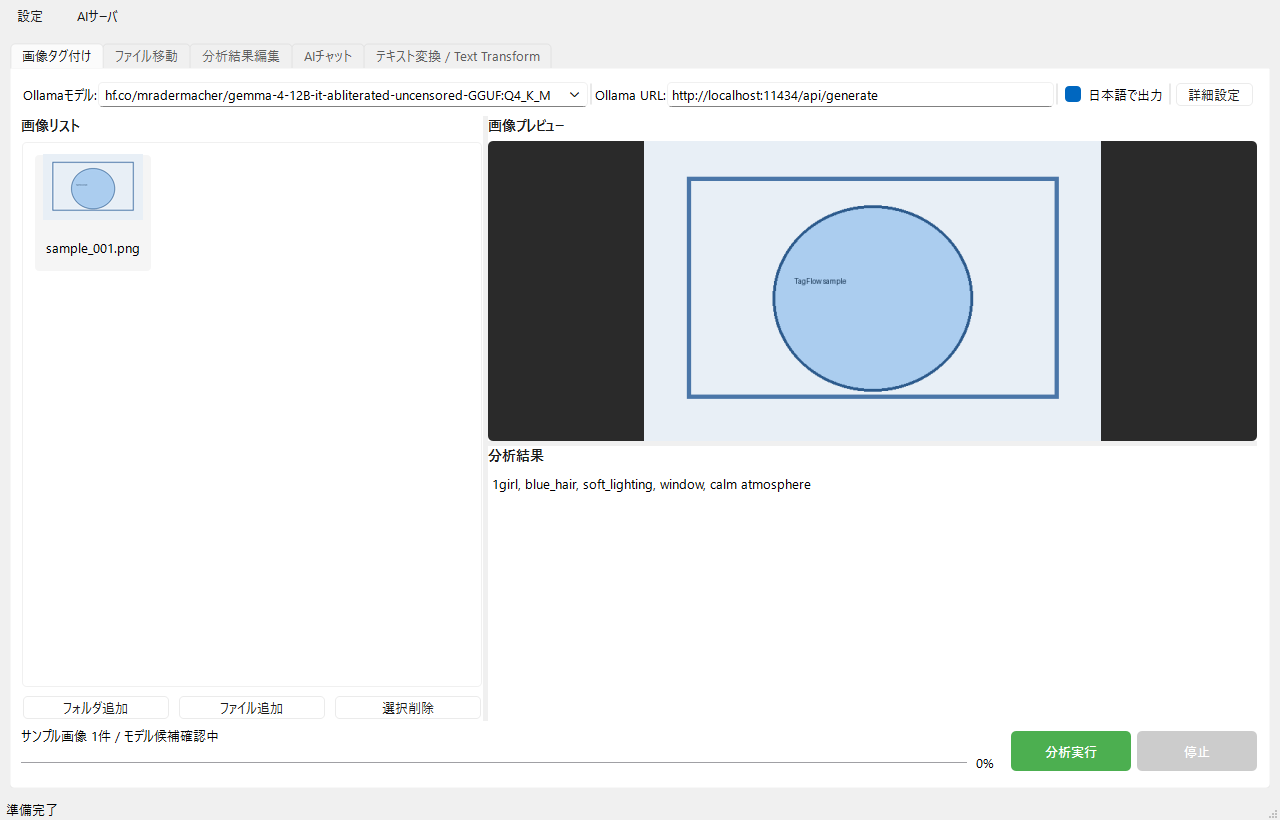
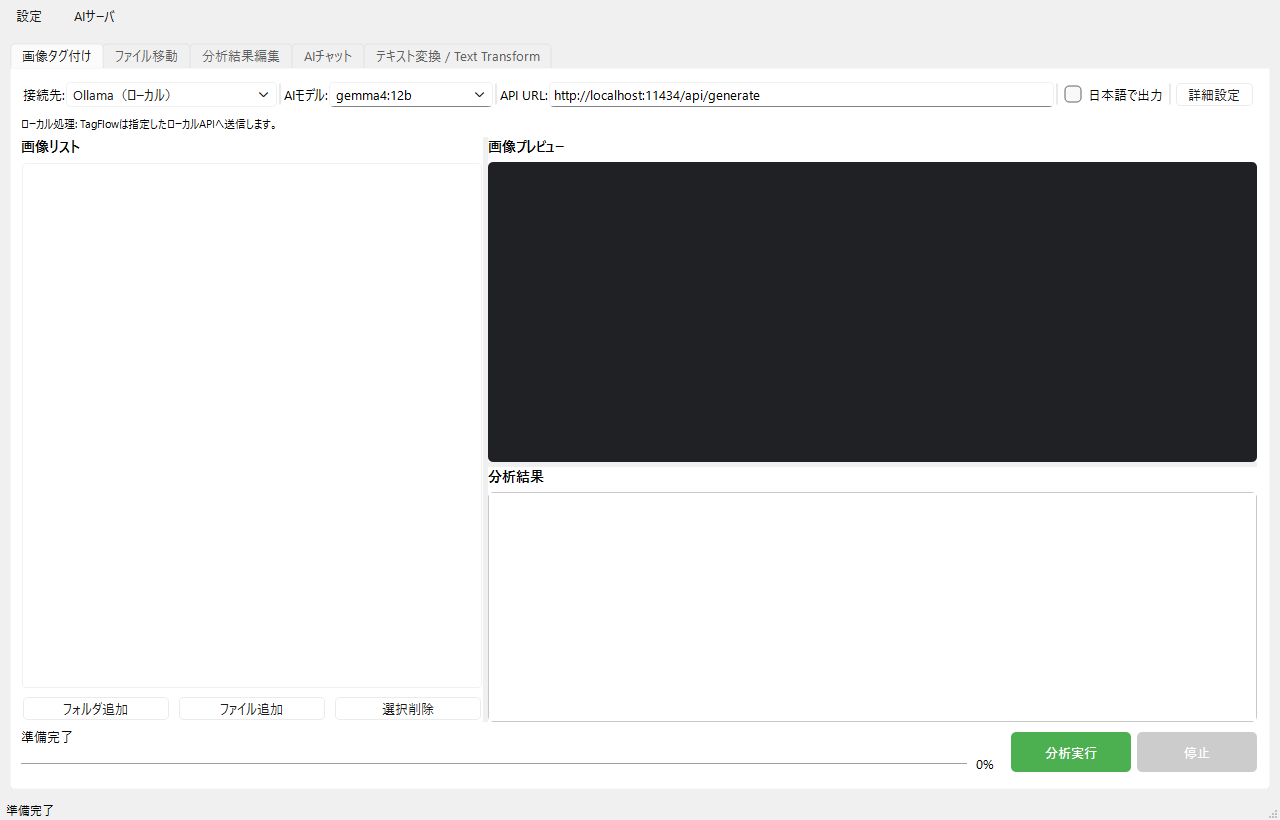
Refresh recommended AI models

diff --git a/tests/test_providers.py b/tests/test_providers.py
@@ -51,7 +51,7 @@ class ProviderPayloadTests(unittest.TestCase):
     def test_openai_responses_payload_uses_base64_image_input(self) -> None:
         payload = build_ai_request_payload(
             API_PROVIDER_OPENAI,
-            "gpt-5.6",
+            "gpt-5.6-sol",
             "describe",
             images=["YWJj"],
             image_mime_types=["image/png"],
@@ -59,7 +59,7 @@ class ProviderPayloadTests(unittest.TestCase):
             top_p=0.8,
         )
 
-        self.assertEqual(payload["model"], "gpt-5.6")
+        self.assertEqual(payload["model"], "gpt-5.6-sol")
         content = payload["input"][0]["content"]
         self.assertEqual(content[0], {"type": "input_text", "text": "describe"})
         self.assertEqual(
@@ -101,7 +101,7 @@ class ProviderPayloadTests(unittest.TestCase):
 
     def test_online_defaults_are_explicit(self) -> None:
         self.assertEqual(provider_default_api_url(API_PROVIDER_OPENAI), "https://api.openai.com/v1/responses")
-        self.assertEqual(provider_default_model(API_PROVIDER_OPENAI), "gpt-5.6")
+        self.assertEqual(provider_default_model(API_PROVIDER_OPENAI), "gpt-5.6-sol")
         self.assertEqual(provider_default_model(API_PROVIDER_CODEX_CLI), "")
 
 
@@ -131,13 +131,13 @@ class OpenAIExecutionTests(unittest.TestCase):
         with self.assertRaisesRegex(ProviderConfigurationError, "OPENAI_API_KEY"):
             provider_request_headers(API_PROVIDER_OPENAI, environ={})
 
-        payload = build_ai_request_payload(API_PROVIDER_OPENAI, "gpt-5.6", "hello")
+        payload = build_ai_request_payload(API_PROVIDER_OPENAI, "gpt-5.6-sol", "hello")
         self.assertNotIn("api_key", payload)
         self.assertNotIn("Authorization", payload)
 
     def test_execute_openai_adds_environment_headers(self) -> None:
         session = FakeSession({"output_text": "answer"})
-        payload = build_ai_request_payload(API_PROVIDER_OPENAI, "gpt-5.6", "hello")
+        payload = build_ai_request_payload(API_PROVIDER_OPENAI, "gpt-5.6-sol", "hello")
 
         result = execute_ai_request(
             API_PROVIDER_OPENAI,
@@ -161,7 +161,7 @@ class OpenAIExecutionTests(unittest.TestCase):
 
     def test_rejected_openai_location_never_reaches_http_session(self) -> None:
         session = FakeSession({"output_text": "answer"})
-        payload = build_ai_request_payload(API_PROVIDER_OPENAI, "gpt-5.6", "hello")
+        payload = build_ai_request_payload(API_PROVIDER_OPENAI, "gpt-5.6-sol", "hello")
 
         with self.assertRaisesRegex(ProviderConfigurationError, "APIキー保護"):
             execute_ai_request(

diff --git a/tests/test_integration.py b/tests/test_integration.py
@@ -232,7 +232,11 @@ class IntegrationTests(unittest.TestCase):
         with tempfile.TemporaryDirectory() as directory:
             app = self.make_app(Path(directory))
             install(app)
-            service = app.TextTransformService("openai", "https://api.openai.com/v1/responses", "gpt-5.6")
+            service = app.TextTransformService(
+                "openai",
+                "https://api.openai.com/v1/responses",
+                "gpt-5.6-sol",
+            )
             app.execute_ai_request.return_value = {"response": "translated"}
             preset = {
                 "prompt": "Translate: {TEXT}",

diff --git a/tagflow_core/providers.py b/tagflow_core/providers.py
@@ -47,7 +47,7 @@ DEFAULT_API_URLS = {
 DEFAULT_PROVIDER_MODELS = {
     API_PROVIDER_OLLAMA: "gemma4:12b",
     API_PROVIDER_LM_STUDIO: "gemma4:12b",
-    API_PROVIDER_OPENAI: "gpt-5.6",
+    API_PROVIDER_OPENAI: "gpt-5.6-sol",
     API_PROVIDER_CODEX_CLI: "",
 }
 HTTP_PROVIDERS = frozenset(
